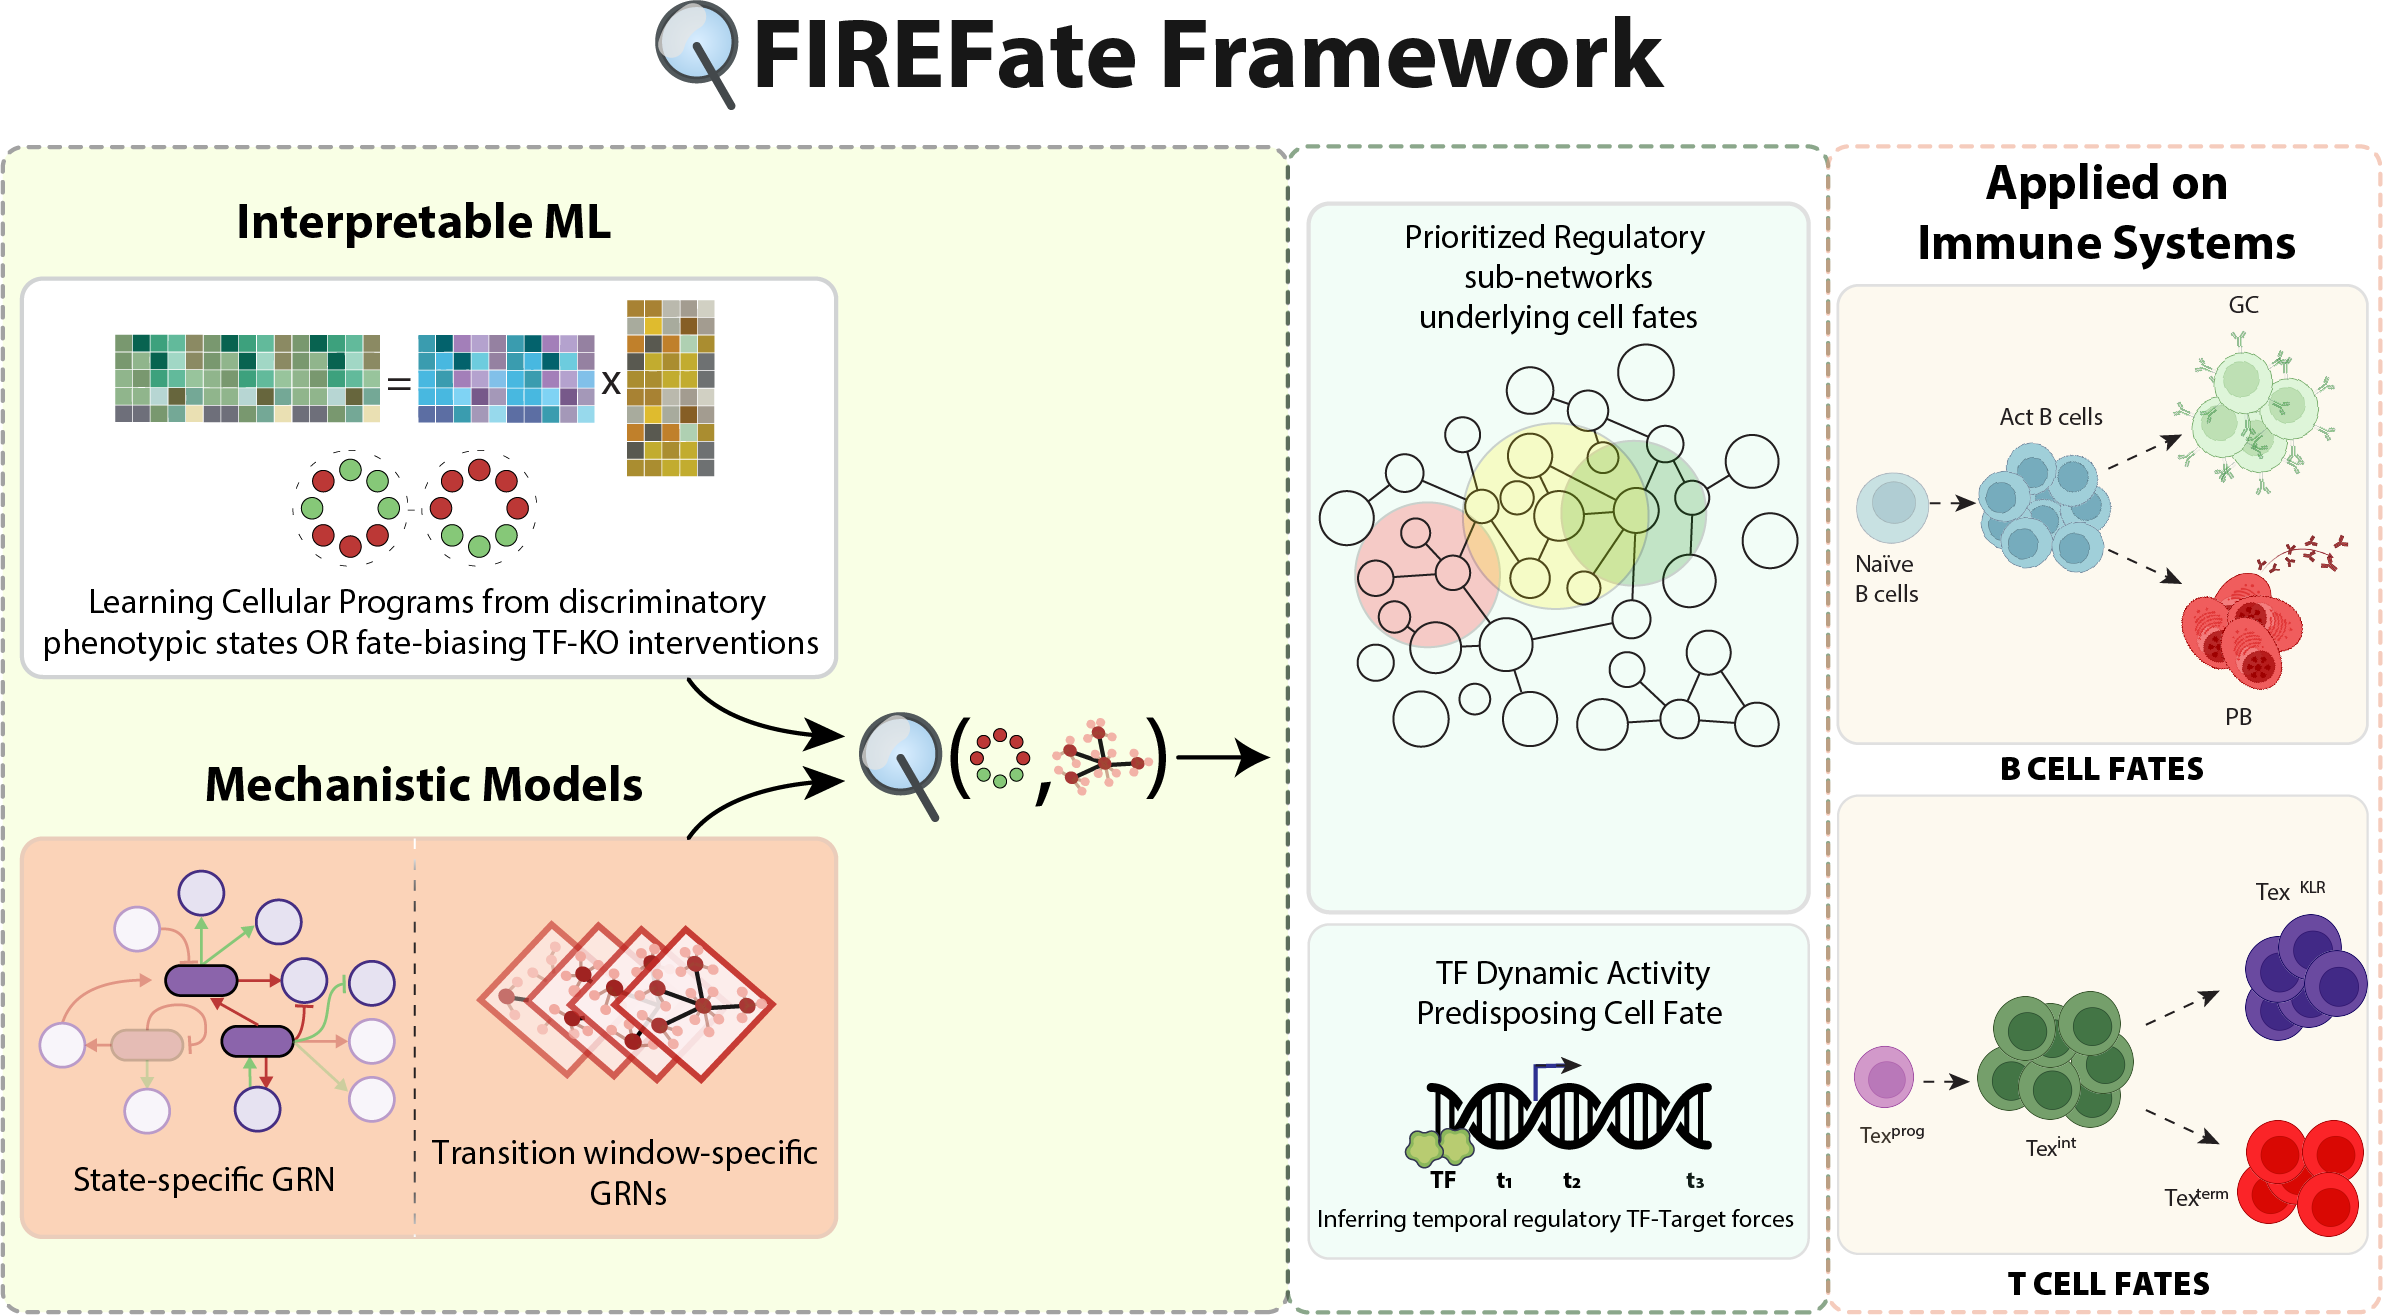
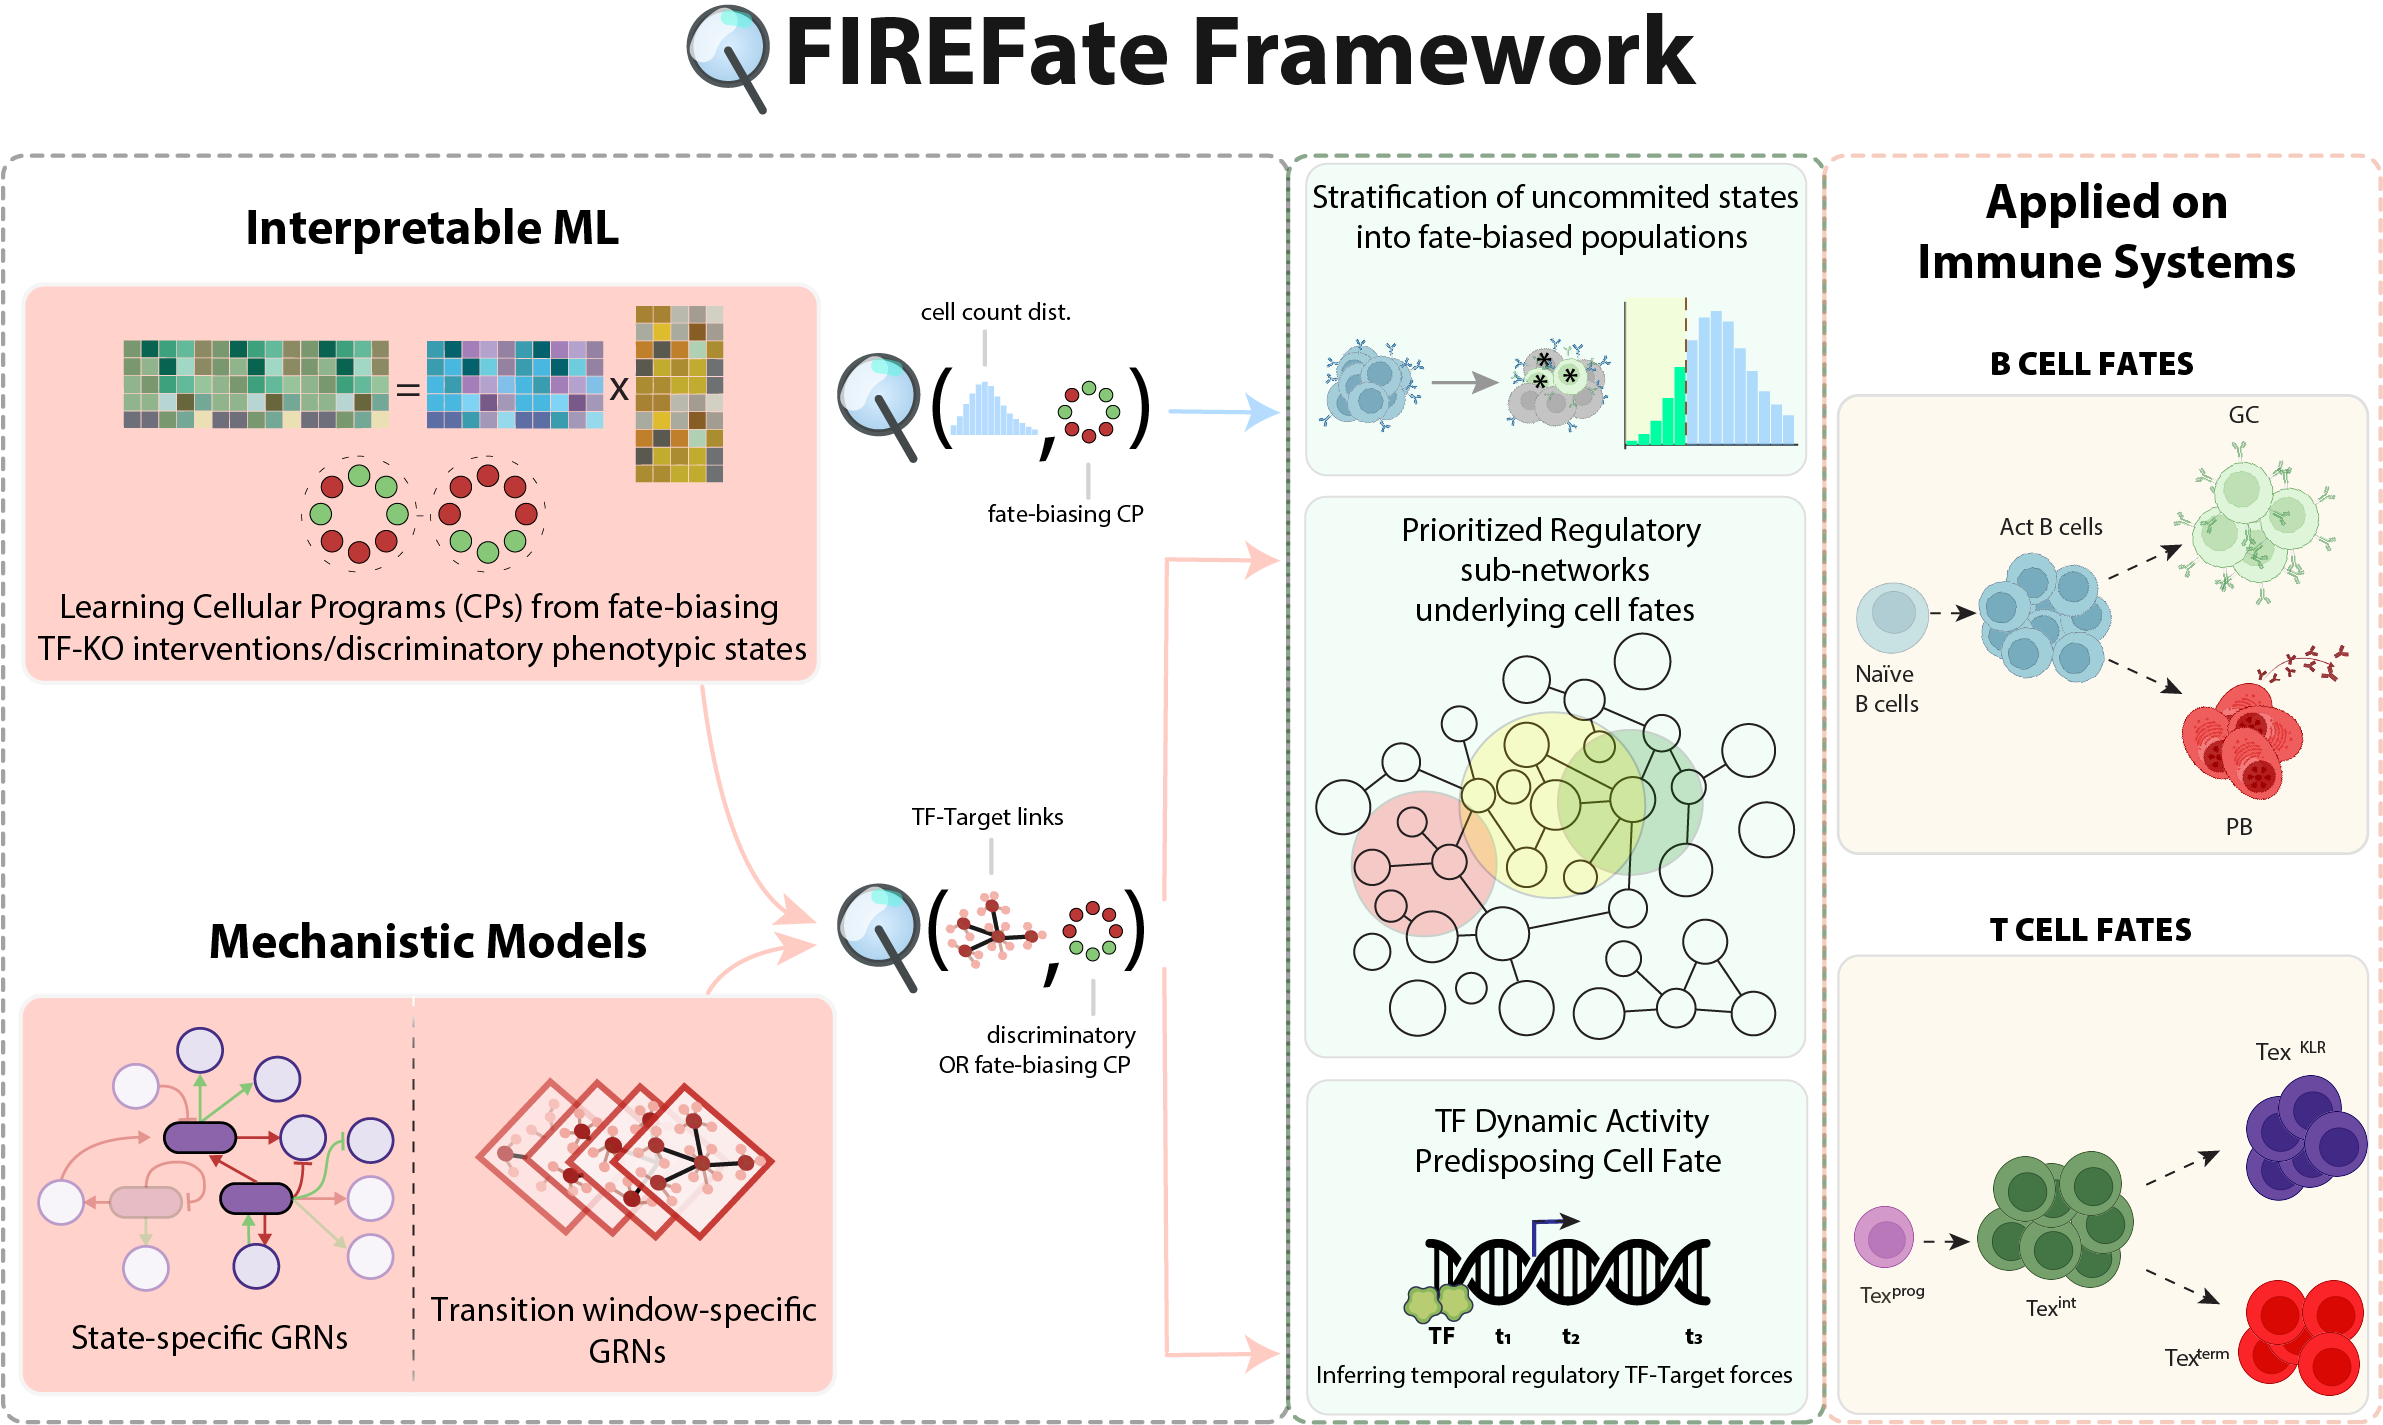
updated readme

diff --git a/README.md b/README.md
@@ -1,5 +1,19 @@
 # FIREFate (Functional and Interpretable Regulatory Encoding of cellular Fate)
 
-This repository provides an open-source toolkit, that uses interpretable ML to focus dense mechanistic gene-regulatory networks underlying cell state transitions, onto the components governing cell fate decisions.
+This repository provides an open-source toolkit, which delivers multi-scale insights at the cell-population, gene-regulatory and epigenomic levels to predict fate-bias during cell state transitions, and infer regulatory components governing cell fate decisions. The framework is built for single-cell (sc-snRNA/scATAC-seq) datasets for both matched or un-matched multi-omic sequenced populations.
 
 ![Interpretable modules](fig_1_bio.png)
+
+Downstream tasks include - 
+
+1. Discovery of interpretable cellular programs (CPs) underlying phenotypically-contrasting cell states, arising from natural progression of cellular processes or fate-biasing interventions.
+
+2. Prediction of fate-biased cell populations in uncommitted states during differentiation, using CPs inferred from intervention datasets (TF-KO)
+
+3. Construction of State-Specific GRNs, and a combined cross-state GRN whose connectivity spans both states in (1), for enrichment of Transcription Factor (TF) activity, which regulates the CP encoding the discriminative phenotype between states.
+
+4. Construction of Transition-Window-Specific GRNs, with clustered regulatory edges to temporally order waves of TF regulation.
+
+5. Construction of Episodic GRNs that capture TF–target forces held temporally invariant across each episode, for enrichment of dynamic TF epigenomic and regulatory activity within each CP, underlying cell fate.
+
+6. Quantification of in-silico perturbation effects from state-specific (DONE) /dynamic phenotypic shifts (TO-DO) induced by perturbing enriched TFs.
